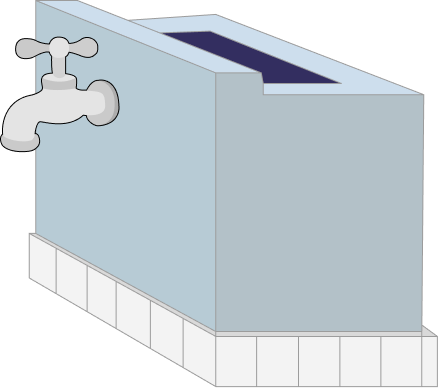
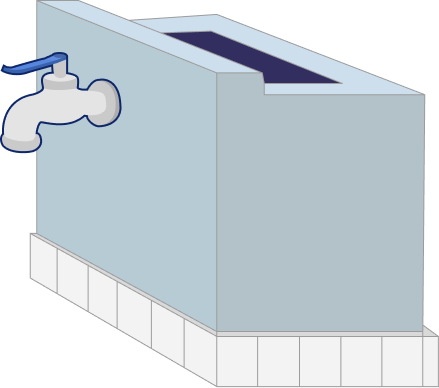
ajustes de assets e interfaz

diff --git a/Miiruka/src/scenes/StartScene.js b/Miiruka/src/scenes/StartScene.js
@@ -4,7 +4,6 @@ import { UIHelpers } from '../utils/ui.js';
 import { addFullScreenImage } from '../utils/backgrounds.js';
 import { attachLoadingOverlay } from '../utils/loadingOverlay.js';
 import { bindDomKeyboardCommand, KeyboardCommands } from '../utils/keyboardControls.js';
-import { GamepadCursor } from '../utils/gamepad.js';
 
 export class StartScene extends Phaser.Scene {
     constructor() {
@@ -22,6 +21,7 @@ export class StartScene extends Phaser.Scene {
         this.load.image('illustration', 'assets/background_start_illustration.png');
         this.load.image('gamepad-cursor', 'assets/ui/cursor-arrow.png');
         this.load.image('gamepad-cursor-active', 'assets/ui/cursor-pointer.png');
+        this.load.image('music-icon', 'assets/ui/music-player.png');
 
         // Desierto
         this.load.image('sky', 'assets/desert/sky.png');
@@ -361,7 +361,7 @@ export class StartScene extends Phaser.Scene {
         this.createFullscreenButton(1648, 980);
         this.createMusicToggle(1760, 980);
         this.createGamepadIndicator(96, 984);
-        GamepadCursor.attach(this);
+        //GamepadCursor.attach(this);
     }
 
     update(time, delta) {
@@ -369,7 +369,7 @@ export class StartScene extends Phaser.Scene {
         this.gears.tilePositionY += 0.3;
         this.gears.tilePositionX += 0.1;
 
-        GamepadCursor.update(this, delta);
+        //GamepadCursor.update(this, delta);
 
     }
 
@@ -457,17 +457,8 @@ export class StartScene extends Phaser.Scene {
         inner.fillStyle(0xf0c18a, 1);
         inner.fillRoundedRect(-size / 2 + 6, -size / 2 + 6, size - 12, size - 12, 12);
 
-        const icon = this.add.graphics();
-        icon.lineStyle(5, 0x6a3a1b, 1);
-        icon.beginPath();
-        icon.moveTo(-8, 20);
-        icon.lineTo(-8, -16);
-        icon.lineTo(14, -22);
-        icon.lineTo(14, 12);
-        icon.strokePath();
-        icon.fillStyle(0x6a3a1b, 1);
-        icon.fillCircle(-8, 22, 7);
-        icon.fillCircle(14, 14, 7);
+        const icon = this.add.image(0, 0, 'music-icon').setOrigin(0.5);
+        icon.setScale(0.2);
 
         const muteLine = this.add.graphics();
         muteLine.lineStyle(5, 0xb25a48, 1);

diff --git a/Miiruka/src/scenes/SettingsScene.js b/Miiruka/src/scenes/SettingsScene.js
@@ -13,7 +13,7 @@ export class SettingsScene extends Phaser.Scene {
         this.load.audio('gametheme', 'assets/sounds/gametheme.mp3');
         this.load.image('gradient', 'assets/background_gradient.png');
         this.load.image('gears', 'assets/background_gears.svg');
-        this.load.svg('music-icon', 'assets/ui/music-note.svg');
+        this.load.image('music-icon', 'assets/ui/music-player.png');
     }
 
     create() {
@@ -62,8 +62,7 @@ export class SettingsScene extends Phaser.Scene {
         inner.fillRoundedRect(-size / 2 + 6, -size / 2 + 6, size - 12, size - 12, 12);
 
         const icon = this.add.image(0, 0, 'music-icon').setOrigin(0.5);
-        icon.setScale(0.4);
-        icon.setTint(0x6a3a1b);
+        icon.setScale(0.2);
 
         const muteLine = this.add.graphics();
         muteLine.lineStyle(6, 0xc0392b, 1);

diff --git a/Miiruka/src/scenes/ChapterSelectorScene.js b/Miiruka/src/scenes/ChapterSelectorScene.js
@@ -154,8 +154,8 @@ export class ChapterSelectorScene extends Phaser.Scene {
             UIHelpers.attachHoverPop(this, cardBody, 0.35);
         }
 
-        //const card = this.add.container(500 + (i - 1) * 420, 700, [
-        const card = this.add.container(710 + (i - 1) * 420, 700, [
+        const card = this.add.container(500 + (i - 1) * 420, 700, [
+        //const card = this.add.container(710 + (i - 1) * 420, 700, [
             border,
             cardBody,
         ])
